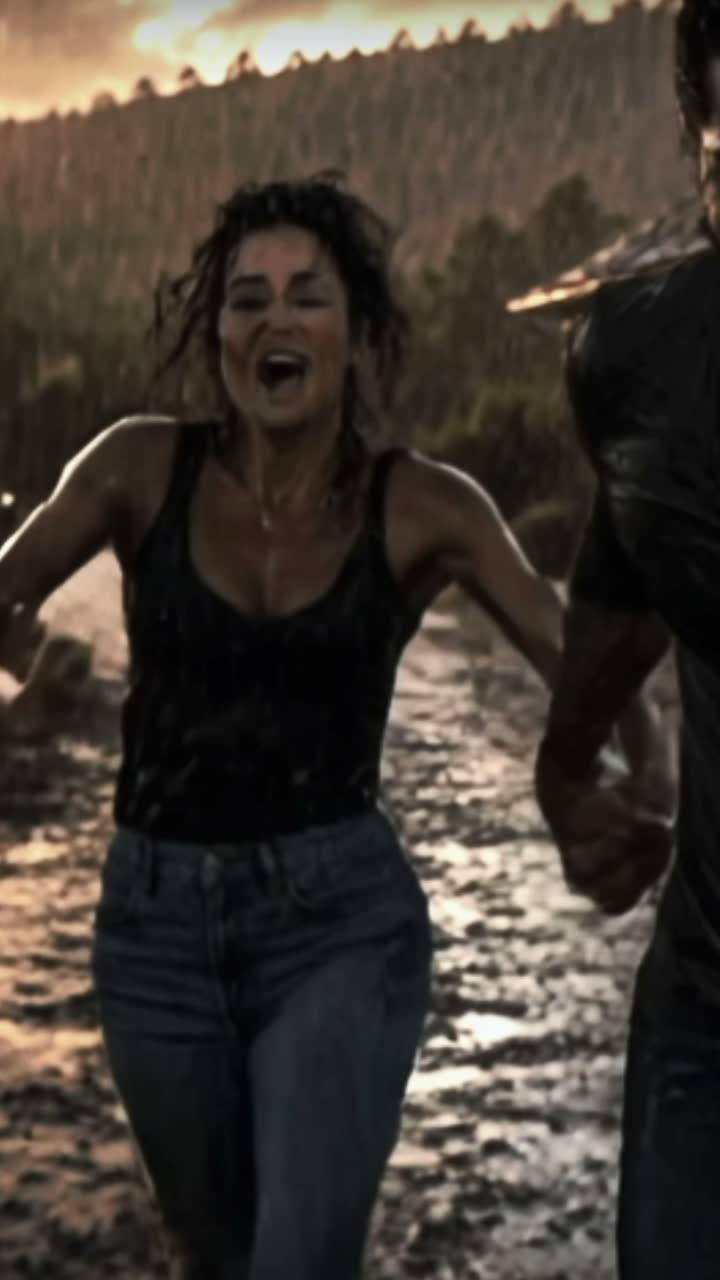
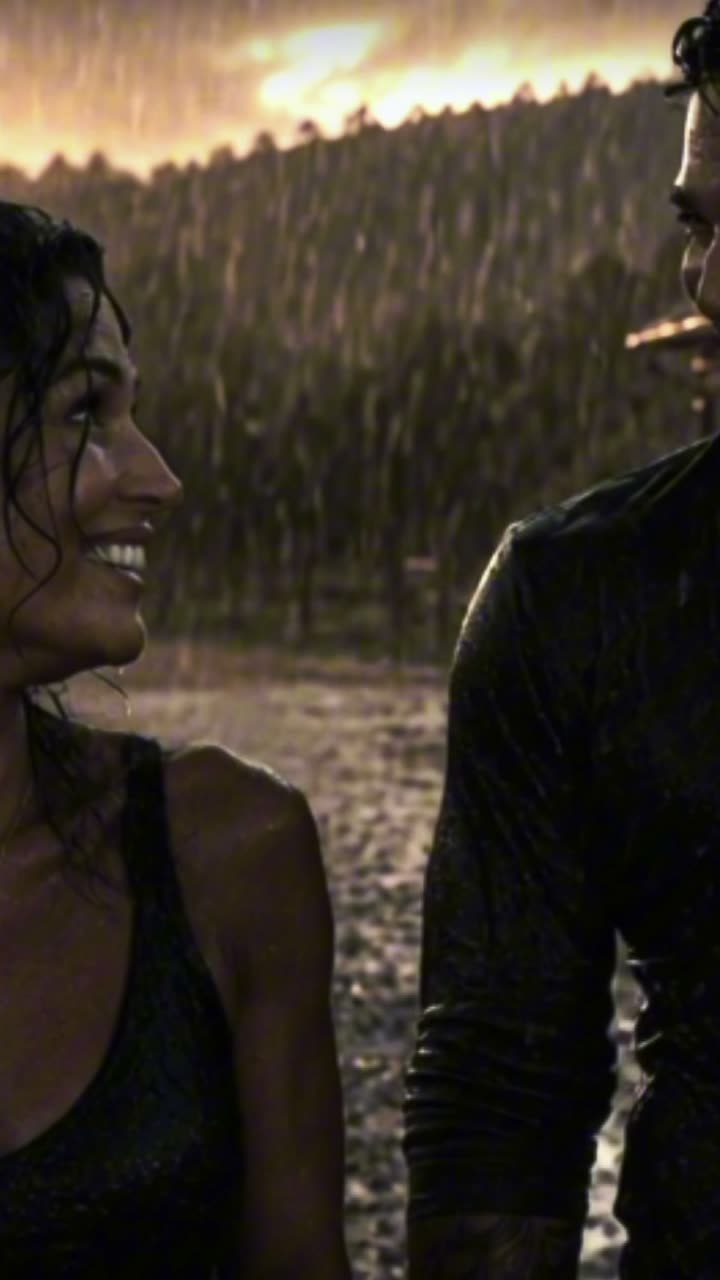
Better cover for the rain clip, and feature it on the front for seven days
Two things, both Melissa, 2026-09-01: "pick a better still for the cover" and
"feature it on the home page for 7 days too. just add a new section below the
latest scene."

THE COVER MOVES FROM 32.5s TO 144s. The old one was her mid-laugh with her mouth
wide open, cropped so that Josh was an arm at the edge of frame — it read as a
shout rather than a smile, which is the opposite of the point. 144s is her
turned to him, smiling properly, face lit and clear, him beside her in profile,
sunset over the pines and the rain still coming down. It is a two-shot of the
thing the clip is for.

Found by rendering candidates as ACTUAL 9:16 CROPS rather than judging full
frames off a contact sheet. That mattered twice: the first cover was picked from
a tiled sheet and landed on motion-blurred hands, and a second pass at "120s"
off another sheet turned out to be a different moment again. Tile-position
arithmetic is not a reliable way to name a timestamp — render the crop and look
at it.

THE HOME PAGE SECTION IS SELF-EXPIRING, which is the part worth keeping. Nothing
has to be remembered or taken down in a week:

  isFeatured(clip)   true while addedOn is within FEATURE_DAYS
  featuredClip()     the newest dated clip, or undefined

SEVEN DAYS RATHER THAN THE FOURTEEN a scene gets from isRecent(), and
deliberately: a scene is the product, a clip is an advert for it, so the clip's
turn on the front page is the shorter one. It also keeps the section genuinely
[…]

diff --git a/app/page.tsx b/app/page.tsx
@@ -30,6 +30,7 @@ import { getCharacter } from "@/lib/content/characters";
 import { galleries } from "@/lib/content/gallery";
 import { cadenceNote, recentReleases } from "@/lib/content/releases";
 import { LatelyRail } from "@/components/home/LatelyRail";
+import { featuredClip } from "@/lib/content/clips";
 import { takes } from "@/lib/content/takes";
 import { formatPrice, getTier } from "@/lib/content/membership";
 import {
@@ -85,6 +86,12 @@ export default async function Home() {
   // it — and until now the home page dropped it and made you find the journal
   // on your own.
   const latestEntry = latest ? entriesForScene(latest.slug)[0] : undefined;
+
+  // THE NEW CLIP, for seven days and then not. Self-expiring — see
+  // featuredClip() in lib/content/clips.ts. Resolved per render like the hero
+  // and the quote, so the section goes away on its own an hour after the
+  // window closes rather than waiting for somebody to remember to remove it.
+  const featured = featuredClip();
 
   // THE NEWEST PAGES OF THE JOURNAL, members-only, shown to everybody.
   // Release order rather than story order — see latestEntries(). Empty until
@@ -246,6 +253,93 @@ export default async function Home() {
                     </Link>
                   </p>
                 )}
+              </div>
+            </div>
+          </section>
+        )}
+
+        {/* ---------------------------------------------------- featured clip */}
+        {/* A NEW CLIP, FOR SEVEN DAYS. Melissa, 2026-09-01. It sits directly
+            under "Just added" because the two make one argument in order: here
+            is the new scene, and here is a minute of these people that costs
+            nothing to watch. The clip is the cheaper thing to say yes to and it
+            is doing the work of an advert, which is why its window is seven
+            days against the scene's fourteen.
+
+            PORTRAIT, AND THE LAYOUT ADMITS IT. Everything else on this page is
+            16:9. Rather than crop a 9:16 clip into a shape it was not made for,
+            the poster keeps its aspect and the text sits beside it — the same
+            two-column arrangement as the card above, mirrored.
+
+            It renders only while featuredClip() returns something, so there is
+            no empty state to design and nothing to take down by hand. */}
+        {featured && (
+          <section
+            aria-labelledby="featured-clip-heading"
+            className="mx-auto w-full max-w-6xl px-5 pt-10 sm:px-8 sm:pt-14"
+          >
+            {/* The poster is CONSTRAINED rather than allowed to fill its
+                column. A 9:16 image given half of a max-w-6xl row is about a
+                thousand pixels tall — it swamped the page and left the copy
+                stranded in white space. Capped at 15rem wide and centred on
+                phones, it lands at roughly 240x427, which is a card rather than
+                a billboard. `items-center` then floats the text against it
+                instead of stretching to match. */}
+            <div className="overflow-hidden rounded-xl border border-hairline bg-charcoal/30 p-4 sm:grid sm:grid-cols-[minmax(0,15rem)_1fr] sm:items-center sm:gap-2 sm:p-5">
+              <Link
+                href={`/clips/${featured.id}`}
+                className="group relative mx-auto block aspect-[9/16] w-full max-w-[15rem] overflow-hidden rounded-lg sm:mx-0 sm:max-w-none"
+              >
+                <Image
+                  src={featured.poster}
+                  alt=""
+                  fill
+                  sizes="(max-width: 640px) 100vw, 30vw"
+                  className="object-cover transition-transform duration-(--duration-slow) group-hover:scale-[1.02]"
+                />
+                <div className="absolute inset-0 bg-gradient-to-t from-void/70 to-transparent sm:bg-gradient-to-r" />
+                <span className="absolute left-4 top-4 rounded-full bg-amber px-3 py-1 text-[0.7rem] font-medium uppercase tracking-[0.12em] text-void">
+                  New clip
+                </span>
+              </Link>
+
+              <div className="flex flex-col justify-center pt-5 sm:p-8 sm:pt-8">
+                <p className="text-xs uppercase tracking-[0.2em] text-amber">
+                  Free to watch
+                </p>
+                <h2
+                  id="featured-clip-heading"
+                  className="mt-3 font-display text-2xl font-light text-ivory sm:text-3xl"
+                >
+                  {featured.title}
+                </h2>
+                <div className="mt-2 flex flex-wrap items-center gap-x-3 gap-y-1 text-xs text-stone">
+                  <span className="tabular-nums">
+                    {formatDuration(featured.durationSeconds)}
+                  </span>
+                  <span aria-hidden>·</span>
+                  <span className="text-stone">Vertical</span>
+                </div>
+                <p className="mt-4 max-w-md leading-relaxed text-stone">
+                  {featured.caption}
+                </p>
+                <div className="mt-6 flex flex-wrap gap-3">
+                  <Link
+                    href={`/clips/${featured.id}`}
+                    className="inline-flex min-h-11 items-center gap-2.5 rounded-full bg-ivory px-6 text-sm font-medium text-void transition-colors duration-(--duration-quick) hover:bg-white"
+                  >
+                    <svg width="13" height="13" viewBox="0 0 24 24" aria-hidden="true">
+                      <path d="M7 4.5v15l13-7.5z" fill="currentColor" />
+                    </svg>
+                    Watch it
+                  </Link>
+                  <Link
+                    href="/clips"
+                    className="inline-flex min-h-11 items-center rounded-full border border-hairline px-5 text-sm text-stone transition-colors duration-(--duration-quick) hover:border-amber hover:text-amber"
+                  >
+                    All clips
+                  </Link>
+                </div>
               </div>
             </div>
           </section>

diff --git a/lib/content/clips.ts b/lib/content/clips.ts
@@ -257,6 +257,42 @@ export const clips: Clip[] = [...authored].sort((a, b) => {
   return 0;
 });
 
+/**
+ * How long a new clip is featured on the home page. Melissa, 2026-09-01:
+ * "feature it on the home page for 7 days too."
+ *
+ * Seven rather than the fourteen `isRecent` gives a scene, and deliberately: a
+ * scene is the product and a clip is an advert for it, so the clip's turn on
+ * the front page should be the shorter one. It also means the section is
+ * genuinely intermittent, which is what stops it reading as furniture.
+ */
+const FEATURE_DAYS = 7;
+
+/** True while a clip is inside its window on the home page. */
+export function isFeatured(clip: Clip, now: Date = new Date()): boolean {
+  if (!clip.addedOn) return false;
+  const days = (now.getTime() - new Date(clip.addedOn).getTime()) / 86_400_000;
+  return days <= FEATURE_DAYS;
+}
+
+/**
+ * The clip to feature, or undefined when there isn't one.
+ *
+ * SELF-EXPIRING BY DESIGN. Nothing has to be remembered or taken down: the
+ * section renders while the newest clip is inside its seven days and vanishes
+ * on its own afterwards. The home page is statically rendered with a one-hour
+ * revalidate, so the disappearance lands within an hour of the deadline rather
+ * than waiting for a deploy.
+ *
+ * Undated clips can never be featured, which is correct — they predate the
+ * field and are not new.
+ */
+export function featuredClip(now: Date = new Date()): Clip | undefined {
+  // clips is already newest-first, so the first dated one is the newest.
+  const newest = clips.find((c) => c.addedOn);
+  return newest && isFeatured(newest, now) ? newest : undefined;
+}
+
 export function getClip(id: string): Clip | undefined {
   return clips.find((c) => c.id === id);
 }
